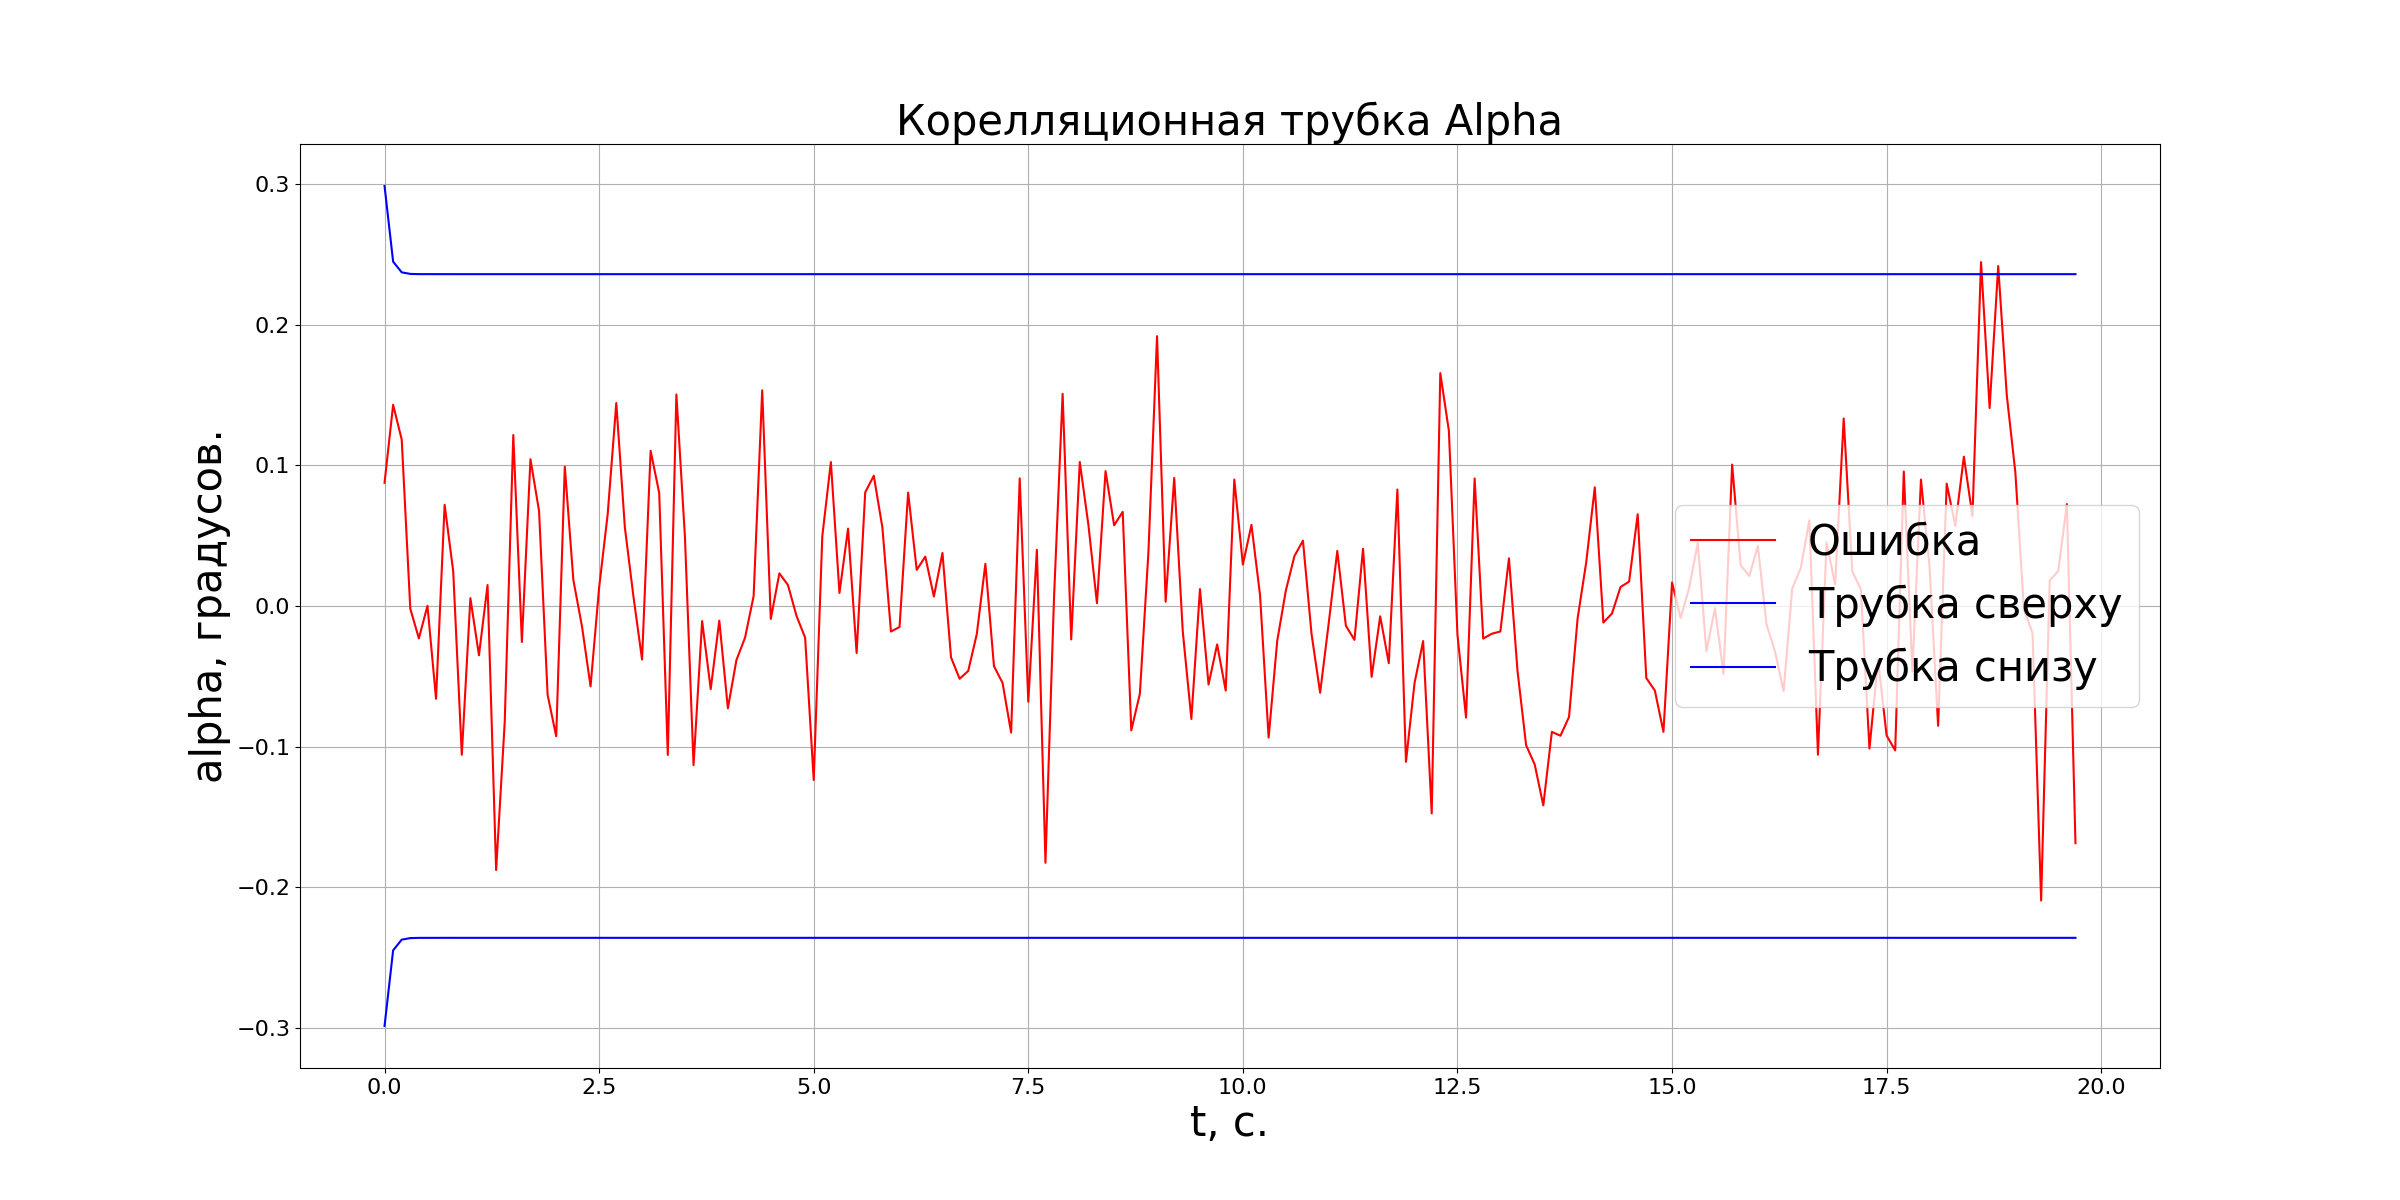
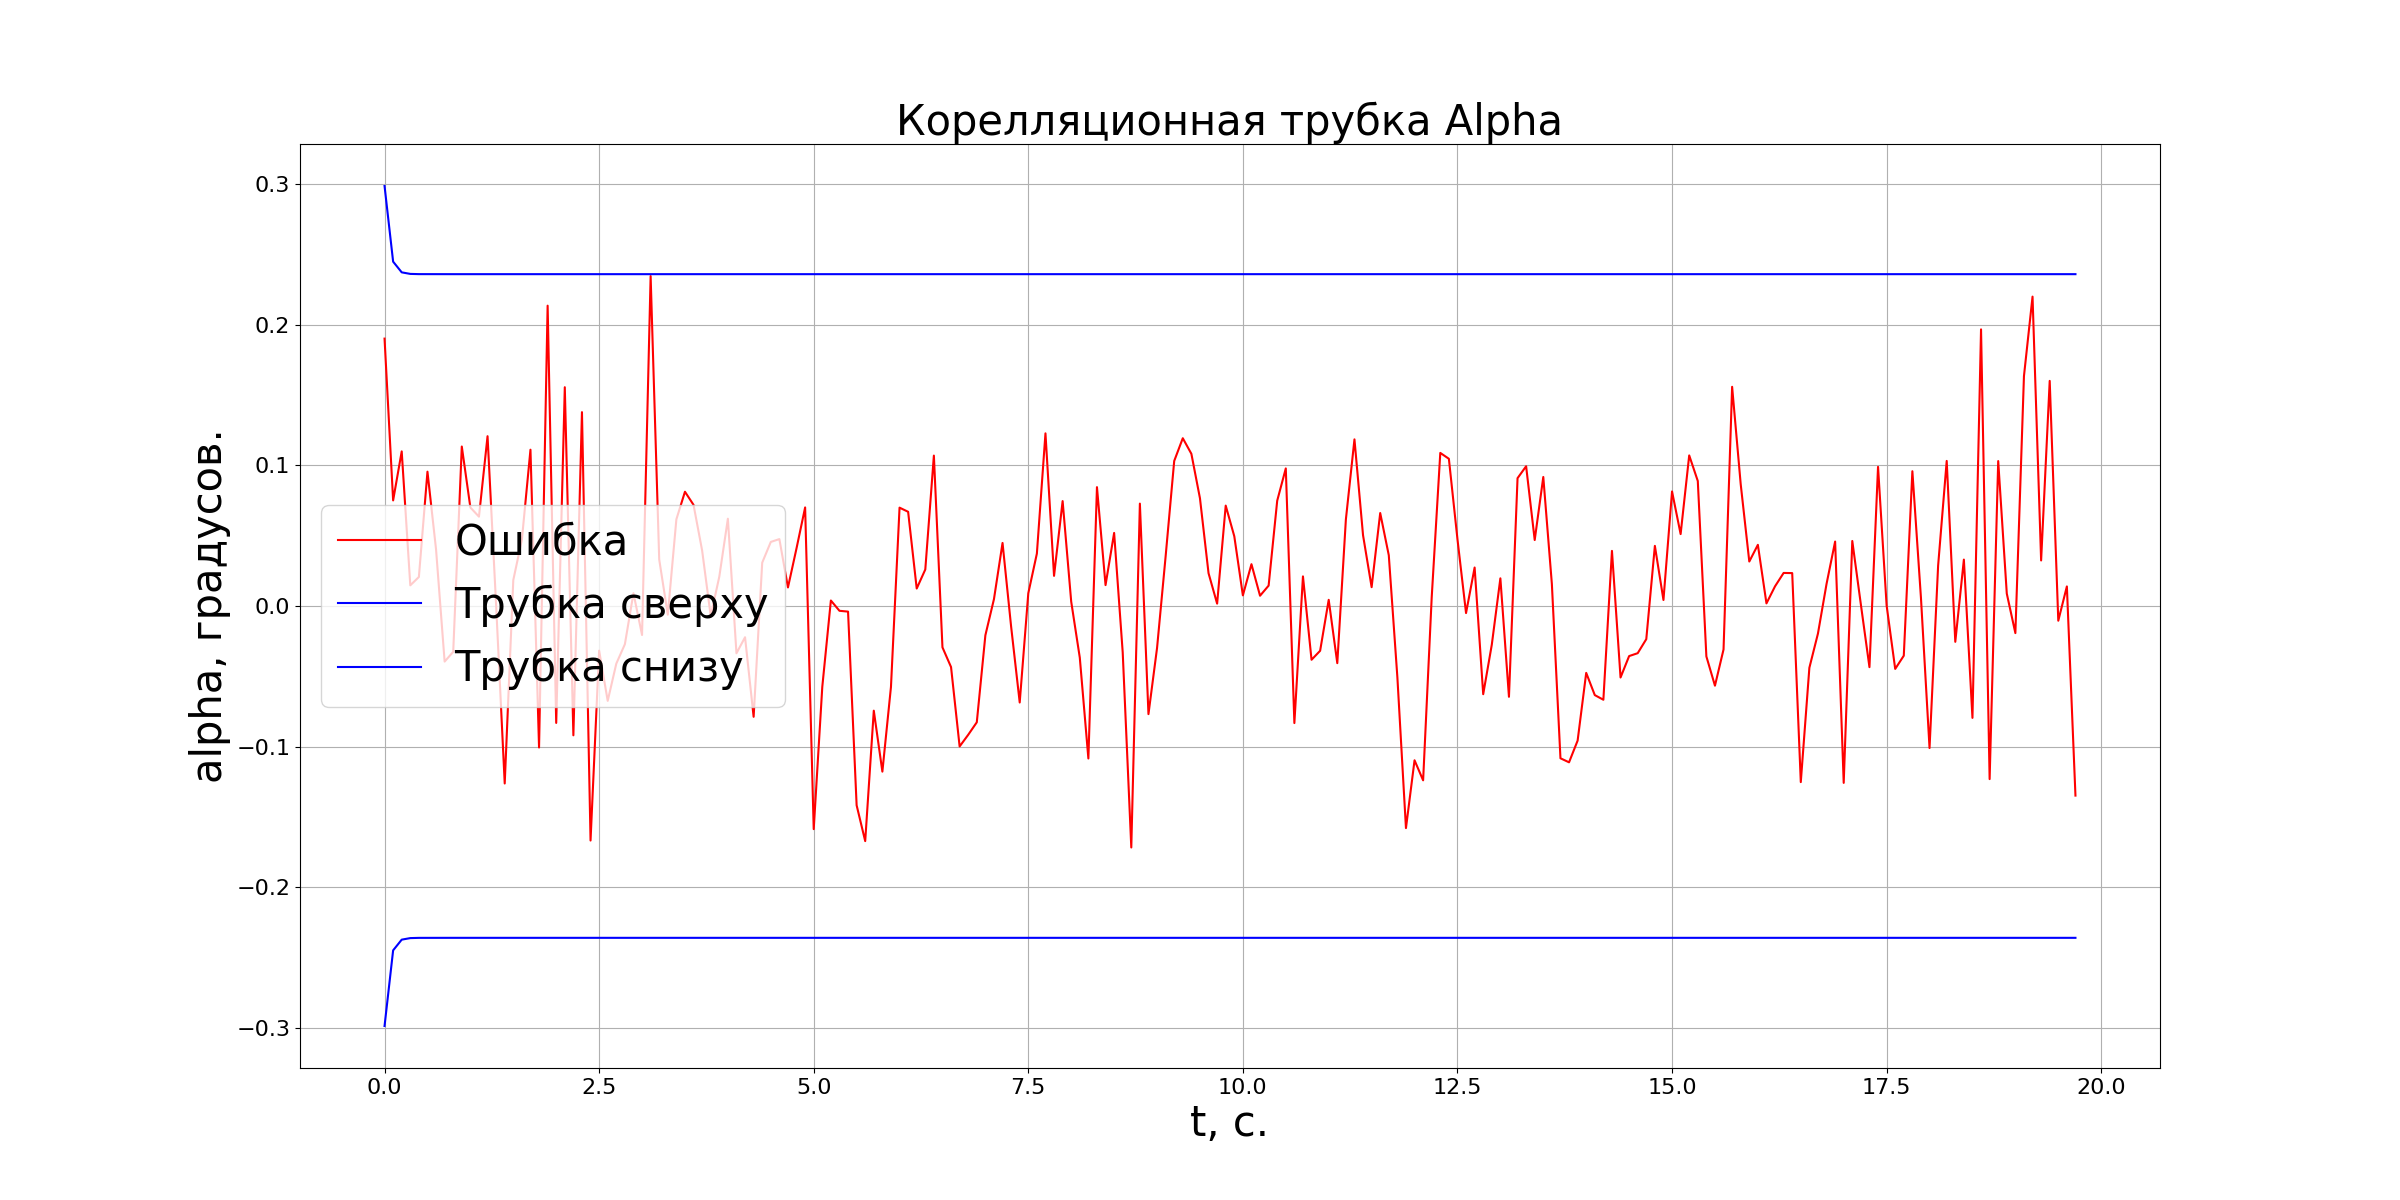
Update FK

Changed region(s): [[0.1562, 0.2158, 0.9062, 0.7092]]

diff --git a/Model.py b/Model.py
@@ -34,30 +34,41 @@ class Model:
         self.dw=90.*np.pi/180.
 
         #под задачу фильтрации
-        self.__p_p=np.zeros((6,6))
-        self.__p_c=np.zeros((6,6))
-        self.__x_c=np.zeros(6)
-        self.__x_p=np.zeros(6)
+        self.__p_p=np.zeros((9,9))
+        self.__p_c=np.zeros((9,9))
+        self.__x_c=np.zeros(9)
+        self.__x_p=np.zeros(9)
         self.__cT=0.
 
         #ошибки измерений
         self.__Dn=np.asarray([
-            [1.,0,0,0,0,0],
-            [0,1.,0,0,0,0],
-            [0,0,0.01,0,0,0],
-            [0,0,0,1.,0,0],
-            [0,0,0,0,1.,0],
-            [0,0,0,0,0,1.],
+            [0.00000001,0,0.],
+            [0,0.00000001,0.],
+            [0,0,0.01],
         ])
 
-        self.__H=np.asarray([
-            [1.,0,0,0,0,0],
-            [0,1.,0,0,0,0],
-            [0,0,1.,0,0,0],
-            [0,0,0,1.,0,0],
-            [0,0,0,0,1.,0],
-            [0,0,0,0,0,1.]
+        self.__Dn2=np.asarray([
+            [0.00000001,0,0,0,0],
+            [0,0.00000001,0,0,0],
+            [0,0,0.01,0,0],
+            [0,0,0.,1.,0],
+            [0.,0.,0.,0.,1.]
         ])
+
+        #матрица наблюдения
+        self.__H=np.asarray([
+            [1.,0,0,0,0,0,0,0,0],
+            [0,1.,0,0,0,0,0,0,0],
+            [0,0,1.,0,0,0,0,0,0],
+        ])
+        self.__H2=np.asarray([
+            [1.,0,0,0,0,0,0,0,0],
+            [0,1.,0,0,0,0,0,0,0],
+            [0,0,1.,0,0,0,0,0,0],
+            [0,0,0.,0,0,1,0,0,0],
+            [0,0,0.,0,0,0,1,0,0],
+        ])
+
         self.Y=[]
         self.Result=[]
         self.RealData=[]
@@ -84,7 +95,7 @@ class Model:
 
         currentT=0
         #если преграды нет, то движемся прямо к двери
-        if (d1>=30) and (d3>=30):
+        if (d1>=30) and (d3>=30) and (d2>=30):
             alpha=tan(atan2((position[1]-__y),(position[0]-__x)))
             dwz1=alpha-__wz
             if dwz1>self.dw*dt:
@@ -141,10 +152,10 @@ class Model:
         """
             моделирование ситуации
 
-            модель ошибок БИНСа для координат - дисперсия линейно уходит с интенсивностью 1 cм^2/c\n
-            модель ошибок координат по Qr коду - 10 cм\n
+            модель ошибок БИНСа для координат - значения линейно уходит с k=3/c\n
+            модель ошибок координат по Qr коду - 9 cм\n
             модель ошибок угловых координат по БИНСу - дисперсия линейно растет с интесивностью 0.1 градус^2/c\n
-            модель ошибок угловых координат по Qr коду - 5 градусов
+            модель ошибок угловых координат по Qr коду - 3 градусов
         """
         t0=0
         position=self.__door.position
@@ -270,31 +281,40 @@ class Model:
             c,dwz,newDt=self.Control(dt,resultD1,resultD2,resultD3,self.__x,self.__y,self.__wz)
             self.Move(dt,c,dwz)
 
-            __x=0
-            __y=0
+
+            __qrx=0
+            __qry=0
             metka=""
-            if len(Detected)!=0 and (self.__cT>3):
+            if len(Detected)!=0:
                 for qr in Detected:
-                    __x+=qr[0]+random.normal(0,3)
-                    __y+=qr[1]+random.normal(0,3)
-                __x=__x/len(Detected)
-                __y=__y/len(Detected)
-                self.__cT=3
+                    __qrx+=qr[0]+random.normal(0,2)
+                    __qry+=qr[1]+random.normal(0,2)
+                __qrx=__qrx/len(Detected)
+                __qry=__qry/len(Detected)
                 metka="qr"
             else:
-                __x=self.__x+self.__cT*3
-                __y=self.__y+self.__cT*3
                 metka="bins"
-              
+
+            __x=self.__x+t0*3#+random.normal(0,0.01)
+            __y=self.__y+t0*3#+random.normal(0,0.01)
+                    
             __wz=self.__wz+random.normal(0,0.1)
             __d1=resultD1
             __d2=resultD2
             __d3=resultD3
 
-            self.RealData.append([t0,self.__x,self.__y,self.__wz,resultD1,resultD2,resultD3])
+            if metka=="qr":
+                currentY=np.asarray([__x,__y,__wz,__qrx,__qry])
+                Data=np.asarray([__d1,__d2,__d3])
+                self.Y.append([t0,metka,currentY,Data])
+            else:
+                currentY=np.asarray([__x,__y,__wz])
+                Data=np.asarray([__d1,__d2,__d3])
+                self.Y.append([t0,metka,currentY,Data])
+
+            self.RealData.append([t0,__x,__y,self.__wz,self.__x,self.__y,])
             
-            currentY=np.asarray([__x,__y,__wz,__d1,__d2,__d3])
-            self.Y.append([t0,metka,currentY])
+   
             
             t0=t0+newDt
             self.__cT+=newDt
@@ -304,14 +324,23 @@ class Model:
                 break
 
 
-    def Prediction(self,U,dt,metka):
+    def Prediction(self,U,dt,t):
+        if t==0:
+            t=dt
+
         F=np.asarray([
-            [1.,0.,0, 0., 0.,0.],
-            [0.,1.,0,0.,0.,0.],
-            [0.,0.,1.,0.,0.,0.],
-            [0.,0.,0.,1.,0.,0.],
-            [0.,0.,0.,0.,1.,0.],
-            [0.,0.,0.,0.,0.,1.]
+            [1.,0.,0, 0., 0.,0.,0, 0., 0.],
+            [0.,1.,0, 0.,0.,0.,0, 0., 0.],
+            [0.,0.,1.,0.,0.,0.,0, 0., 0.],
+            
+            [1.,0.,0.,0.,0.,0.,0, -t, 0.],
+            [0.,1.,0.,0.,0.,0.,0, 0., -t],
+            
+            [0.,0.,0.,0.,1.,0.,0, 0., 0],
+            [0.,0.,0.,0.,0.,1.,0, 0., 0],
+            
+            [1/(t/dt)/dt,0,0.,0.,1/(t/dt)/dt,0.,0, 0., 0],
+            [0.,1/(t/dt)/dt,0.,0.,0.,1/(t/dt)/dt,0, 0., 0],
         ],dtype=float)
 
         # V=np.asarray([
@@ -322,57 +351,69 @@ class Model:
         #     [0.,0,],
         #     [0.,0,],
         # ],dtype=float)
-        L=self.GetLambda(self.__cT,metka)
-        L_t=np.transpose(L)
 
-        De=np.dot(np.dot(L,self.__Dn),L_t)
-        
+        # L=self.GetLambda(self.__cT)
+        # L_t=np.transpose(L)
+        # De=np.dot(np.dot(L,self.__Dn),L_t)
+
+        De=np.asarray([
+            [0.0001,0,0,0,0,0,0,0,0],
+            [0,0.0001,0,0,0,0,0,0,0],
+            [0,0,0.01,0,0,0,0,0,0],
+            [0,0,0,1,0,0,0,0,0],
+            [0,0,0,0,1,0,0,0,0],
+            [0,0,0,0,0,1,0,0,0],
+            [0,0,0,0,0,0,1,0,0],
+            [0,0,0,0,0,0,0,0.01,0],
+            [0,0,0,0,0,0,0,0,0.01],
+        ])
+
         self.__x_p[0]=self.__x_c[0]+U[0]*cos(self.__x_c[2]+U[1])*dt
         self.__x_p[1]=self.__x_c[1]+U[0]*sin(self.__x_c[2]+U[1])*dt
         self.__x_p[2]=self.__x_c[2]+U[1]
-        self.__x_p[3]=self.__x_c[3]
-        self.__x_p[4]=self.__x_c[4]
-        self.__x_p[5]=self.__x_c[5]
+
+        self.__x_p[3]=self.__x_c[0]-self.__x_c[7]*t+U[0]*cos(self.__x_c[2]+U[1])*dt
+        self.__x_p[4]=self.__x_c[1]-self.__x_c[8]*t+U[0]*sin(self.__x_c[2]+U[1])*dt
+
+        self.__x_p[5]=self.__x_c[5]+U[0]*cos(self.__x_c[2]+U[1])*dt
+        self.__x_p[6]=self.__x_c[6]+U[0]*sin(self.__x_c[2]+U[1])*dt
+
+        self.__x_p[7]=(self.__x_c[0]-self.__x_c[5])/(t/dt)/dt
+        self.__x_p[8]=(self.__x_c[1]-self.__x_c[6])/(t/dt)/dt
+
 
         self.__p_p=np.dot(np.dot(F,self.__p_c),np.transpose(F))+De
 
 
     def Correction(self,Y,metka):
-        L=self.GetLambda(self.__cT,metka)
-        L_t=np.transpose(L)
+        # L=self.GetLambda(self.__cT)
+        # L_t=np.transpose(L)
 
-        De=np.dot(np.dot(L,self.__Dn),L_t)
-        invDe=LA.inv(De)
-   
-        H_t=np.transpose(self.__H)
-        
-        self.__p_c=LA.inv(LA.inv(self.__p_p)+np.dot(np.dot(H_t,invDe),self.__H))
+        # De=np.dot(np.dot(L,self.__Dn),L_t)
+        if metka=="bins":
+            __H=self.__H
+            invDe=LA.inv(self.__Dn)
+            H_t=np.transpose(self.__H)
+        elif metka=="qr":
+            __H=self.__H2
+            invDe=LA.inv(self.__Dn2)
+            H_t=np.transpose(self.__H2)
+                  
+        self.__p_c=LA.inv(LA.inv(self.__p_p)+np.dot(np.dot(H_t,invDe),__H))
     
         mult=np.dot(np.dot(self.__p_c,H_t),invDe)
     
-        subl=Y-np.dot(self.__H,self.__x_p)
+        subl=Y-np.dot(__H,self.__x_p)
     
         self.__x_c=(self.__x_p+np.dot(mult,subl))
 
-    def GetLambda(self,coeff,metka):
-        if metka=="bins":
-            return np.asarray([
-            [(1+coeff)*1.35,0,0,0,0,0],
-            [0,(1+coeff)*1.35,0,0,0,0],
-            [0,0,1.,0,0,0],
-            [0,0,0,1.,0,0],
-            [0,0,0,0,1.,0],
-            [0,0,0,0,0,1.]
-            ])
-        elif metka=="qr":
-            return np.asarray([
-            [(1+coeff),0,0,0,0,0],
-            [0,(1+coeff),0,0,0,0],
-            [0,0,1.,0,0,0],
-            [0,0,0,1.,0,0],
-            [0,0,0,0,1.,0],
-            [0,0,0,0,0,1.]
-            ])
+    # def GetLambda(self,coeff):
+    #         return np.asarray([
+    #         [1,0,0],
+    #         [0,1,0],
+    #         [0,0,1.]
+    # ])
+
 
     def FilterKalman(self,dt):
         t0=0
@@ -380,51 +421,72 @@ class Model:
         alpha=tan(atan2((position[1]-self.__initY),(position[0]-self.__initX)))
         self.__wz=alpha
 
-        self.__x_p[0]=self.__initX
-        self.__x_p[1]=self.__initY
+        self.__x_p[0]=self.__initX+random.normal(0,3)
+        self.__x_p[1]=self.__initY+random.normal(0,3)
         self.__x_p[2]=self.__wz
-        self.__x_p[3]=200
-        self.__x_p[4]=100
-        self.__x_p[5]=100
+        self.__x_p[3]=self.__x_p[0]
+        self.__x_p[4]=self.__x_p[1]
+        self.__x_p[5]=self.__x_p[0]
+        self.__x_p[6]=self.__x_p[1]
+        self.__x_p[7]=0
+        self.__x_p[8]=0
+     
 
-        self.__p_p[0][0]=100
-        self.__p_p[1][1]=100
+        self.__p_p[0][0]=10
+        self.__p_p[1][1]=10
         self.__p_p[2][2]=1
-        self.__p_p[3][3]=100
-        self.__p_p[4][4]=100
-        self.__p_p[5][5]=100
-
+        self.__p_p[3][3]=10
+        self.__p_p[4][4]=10
+        self.__p_p[5][5]=10
+        self.__p_p[6][6]=10
+        self.__p_p[7][7]=10
+        self.__p_p[8][8]=10
+   
+        
         index=0
         self.__cT=0
+
+
         while(True):
 
             Data=self.Y[index]
 
-            if Data[1]=="qr":
-                self.__cT=3-1
+            # if Data[1]=="qr":
+            #     self.__cT=3-1
             
             y=Data[2]
-                       
-                        
-            #self.Correction(y)
-            #c,dwz,newDt=self.Control(dt,y[3],y[4],y[5],y[0],y[1],y[2])
-            
+            otherY=Data[3]           
+
             self.Correction(y,Data[1])
-            c,dwz,newDt=self.Control(dt,y[3],y[4],y[5],self.__x_c[0],self.__x_c[1],self.__x_c[2])
+            self.Result.append([Data[0],self.__x_c[0],self.__x_c[1],self.__x_c[2],self.__x_c[3],self.__x_c[4]])
+            self.P.append([Data[0],self.__p_c[0][0],self.__p_c[1][1],self.__p_c[2][2],self.__p_c[3][3],self.__p_c[4][4]])         
+
+            c,dwz,newDt=self.Control(dt,otherY[0],otherY[1],otherY[2],self.__x_c[3],self.__x_c[4],self.__x_c[2])
             U=np.asarray([c,dwz])
-            self.Prediction(U,newDt,Data[1])
-            self.Result.append([t0,self.__x_c[0],self.__x_c[1],self.__x_c[2],self.__x_c[3],self.__x_c[4],self.__x_c[5]])
-            self.P.append([t0,self.__p_c[0][0],self.__p_c[1][1],self.__p_c[2][2],self.__p_c[3][3],self.__p_c[4][4],self.__p_c[5][5]])
+            # if Data[1]=="qr":
+            #     n=(Data[0]/dt)
+            #     d1=(self.__x_c[0]-otherY[3])/(n-1)
+            #     d2=(self.__x_c[1]-otherY[4])/(n-1)
+
+            #     if k1==0:    
+            #         k1=d1/dt
+            #         k2=d2/dt
+            #     else:
+            #         k1=(k1+d1/dt)/2
+            #         k2=(k2+d2/dt)/2
+            #     coeff=8
+            # elif k1==0:
+            #     coeff=self.__cT*8
+            self.Prediction(U,newDt,Data[0])
             
             
-            t0=t0+newDt
+            
             self.__cT+=newDt
             index+=1
             
             if index>=len(self.Y): 
                 break
 
-            # if ((position[1]-self.__x_c[1])**2+(position[0]-self.__x_c[0])**2)**0.5<25:
-            #     break
+
       
 
